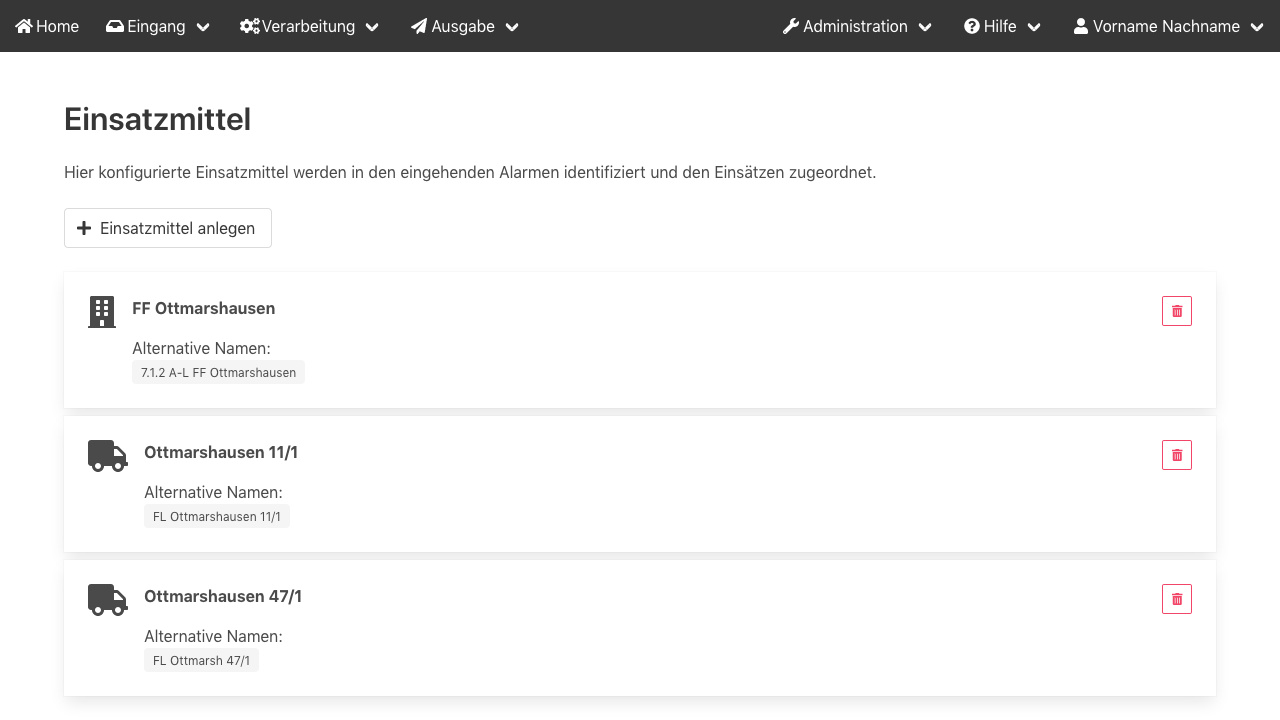
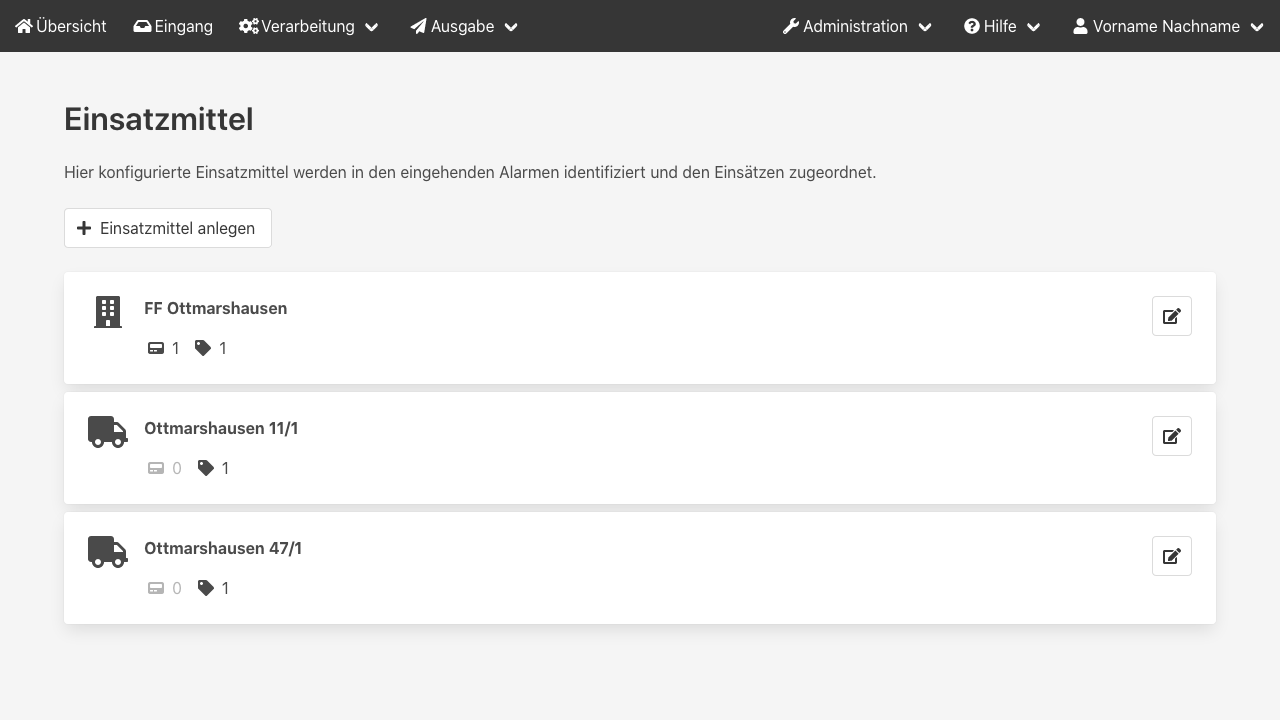
Update resource editor docs

diff --git a/docs/de/10_Zentrale/20_Stammdaten/Einsatzmittel.md b/docs/de/10_Zentrale/20_Stammdaten/Einsatzmittel.md
@@ -14,16 +14,13 @@ Diese Unterscheidung kommt aktuell noch nicht zum Tragen und ist nur eine Vorber
 
 ![](resources.png)
 
-## Erkennung im Alarmfax
-Im Alarmfax werden Einsatzmittel oft mit Abkürzungen bezeichnet (z. B. `FL Ottmarsh 47/1` statt 'Ottmarshausen 47/1').
+## Erkennung in Texten
+Im Alarmfax werden Einsatzmittel oft mit Abkürzungen bezeichnet (z. B. _FL Ottmarsh 47/1_).
 Damit diese Einsatzmittel erfolgreich erkannt und zugeordnet werden können, kann bei jedem Einsatzmittel eine Liste von alternativen Namen angegeben werden.
+Bei der Textanalyse werden ausschließlich diese Bezeichner herangezogen.
 
-Leider fehlt in der aktuellen Beta-Version noch die grafische Oberfläche zum Anlegen in der Console.
-Über die [API](../50_API.md#page_section_10) können die alternativen Namen bereits gesetzt werden.
+![](resource-editor.png)
 
 ## Zuordnung von Selektivrufen
 Einem Einsatzmittel können ebenso Selektivrufe zugeordnet werden.
-Selektivrufe, die [per API](../10_Quellen/Pager-API.md) zugeliefert werden, aber keinem Einsatzmittel zugeordnet sind, werden ignoriert.
-
-Leider fehlt in der aktuellen Beta-Version noch die grafische Oberfläche zum Anlegen in der Console.
-Über die [API](../50_API.md#page_section_10) können die Selektivrufe bereits gesetzt werden.
+Dies ist Voraussetzung, um ausgelöste Selektivrufe [per API](../10_Quellen/Pager-API.md) zuliefern zu können.
